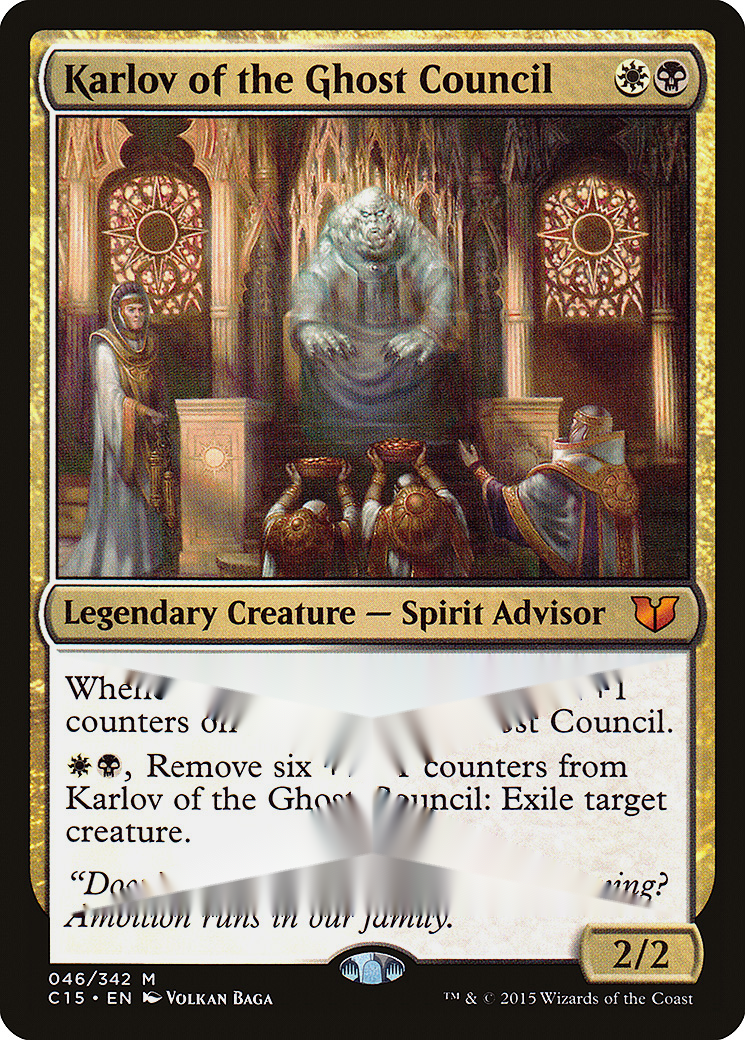
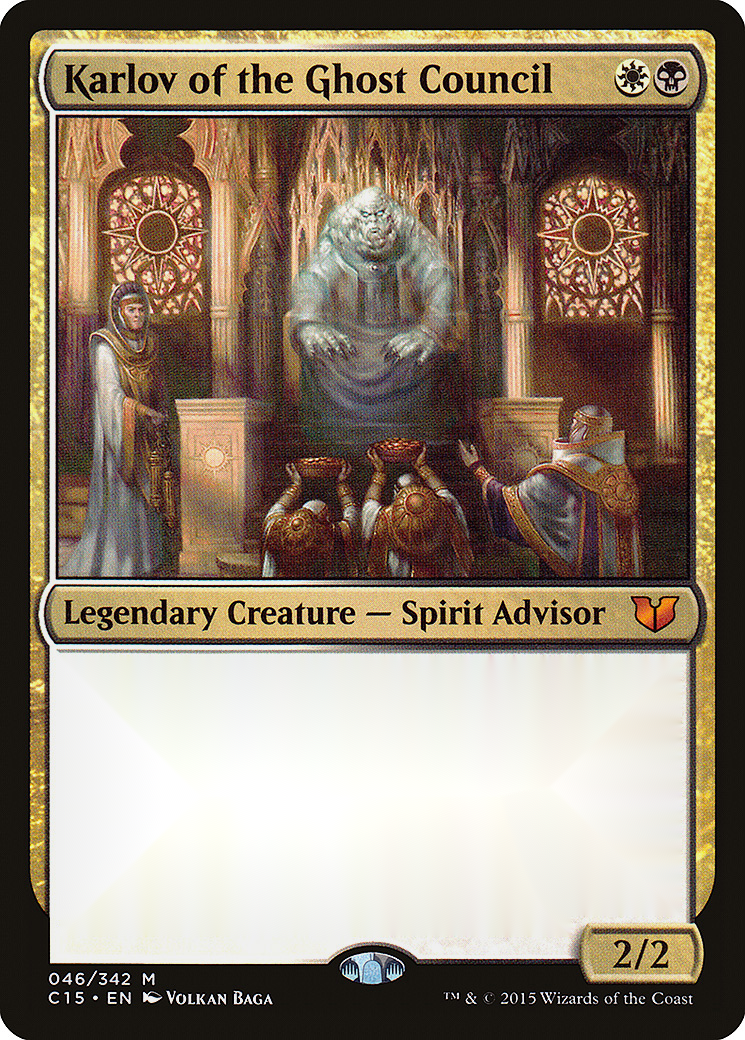
fixed cv2

Changed region(s): [[0.0926, 0.6462, 0.8953, 0.8923]]

diff --git a/inpainting.py b/inpainting.py
@@ -7,43 +7,41 @@ from io import BytesIO
 img = cv2.imread("karlov.png")
 x1, y1 = 58,593
 x2, y2 = 622,635
-h, w = img.shape[:2]
 
 bloco_texto = np.array([
-    [int(0.08*w), int(0.63*h)],
-    [int(0.92*w), int(0.63*h)],
-    [int(0.08*w), int(0.88*h)],
-    [int(0.92*w), int(0.88*h)]
-])
-
+    [60,656],    # 1 topo esquerdo
+    [680,656],   # 2 topo direito
+    [680,915],
+    [570,915],   
+    [570,935],   # 4 canto inferior direito inclinado
+    [60,935],    # 5 canto inferior esquerdo
+         # 6 subindo lado esquerdo
+], dtype=np.int32)
 
 bloco_tipo=[(58,593),(622,635)]
 
 bloco_nome=[(60,60),(610,100)]
 
-
 def recorte(bloco):
-    # caminho da carta
-    
 
-    # cria máscara preta (mesmo tamanho da imagem)
     mask = np.zeros(img.shape[:2], dtype=np.uint8)
-    mask = cv2.GaussianBlur(mask, (21,21), 0)
 
-    # desenha retângulo branco na máscara (área a remover)
+    # desenha polígono
     cv2.fillPoly(mask, [bloco], 255)
-    # aplica inpainting
+
+    # suaviza borda
+    # mask = cv2.GaussianBlur(mask, (21,21), 0)
+
+    # inpainting
     resultado = cv2.inpaint(img, mask, 3, cv2.INPAINT_TELEA)
+    debug = img.copy()
+    cv2.polylines(debug, [bloco_texto], True, (0,0,255), 3)
+    # mistura pra ficar natural
+    alpha = 0.6
+    # suave = cv2.addWeighted(resultado, alpha, img, 1-alpha, 0)
 
-    alpha = 0.6  # força do inpainting (0 = original, 1 = total)
-    suave = cv2.addWeighted(resultado, alpha, img, 1-alpha, 0)
-
-
-    # cv2.imshow("Original", img)
-    # cv2.imshow("Mascara", mask)
-    # cv2.imshow("Inpainting", resultado)
     cv2.imwrite("resultado.png", resultado)
-
+    cv2.imwrite("polly.png", debug)
 recorte(bloco_texto)
 
 # cv2.waitKey(0)
